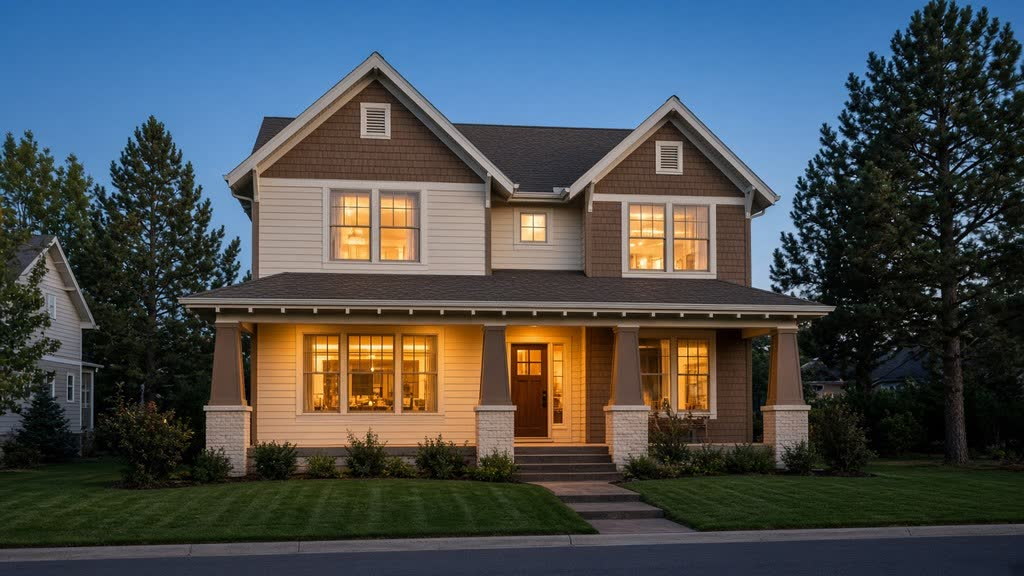
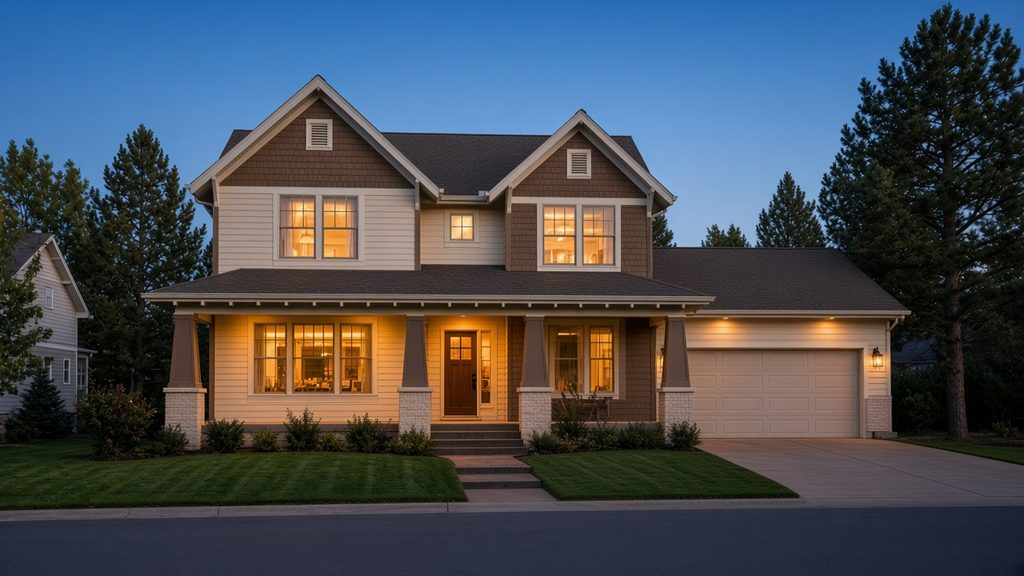
Light the two-story garage on its trim and meet each gable at the apex.
Swap the two-story photo for the house with an attached garage, trace street, wrap, and full outline on the real edges, and space every gable from a single puck at the peak.

diff --git a/index.html b/index.html
@@ -607,7 +607,7 @@ section{position:relative}
         <div class="fit-opts" id="fitHome" role="radiogroup" aria-label="Your home">
           <button type="button" class="fit-o" data-v="ss" aria-pressed="false"><b>Single story</b><i>Ranch or rambler</i></button>
           <button type="button" class="fit-o on" data-v="sg" aria-pressed="true"><b>Single story + garage</b><i>Garage wing out front</i></button>
-          <button type="button" class="fit-o" data-v="ts" aria-pressed="false"><b>Two story</b><i>Or a tall, steep roof</i></button>
+          <button type="button" class="fit-o" data-v="ts" aria-pressed="false"><b>Two story</b><i>Two levels, attached garage</i></button>
         </div>
         <div class="fit-q" style="margin-top:26px"><span>02</span> How much light</div>
         <div class="fit-opts fit-opts-c" id="fitCov" role="radiogroup" aria-label="How much light">
@@ -1234,32 +1234,49 @@ section{position:relative}
     return s;
   }
   function samples(pts, step) {
-    var segs = [], total = 0, i, dx, dy, len, dist, acc, t, out, k, a, b, L, count;
-    for (i = 0; i < pts.length - 1; i++) {
-      dx = pts[i + 1][0] - pts[i][0];
-      dy = pts[i + 1][1] - pts[i][1];
-      len = Math.sqrt(dx * dx + dy * dy);
-      segs.push([pts[i], pts[i + 1], len]);
-      total += len;
+    var i, apex = -1, total, dA, span;
+    function dist(a, b) {
+      var dx = b[0] - a[0], dy = b[1] - a[1];
+      return Math.sqrt(dx * dx + dy * dy);
     }
-    if (total < 1) return pts.slice();
-    count = Math.max(2, Math.round(total / step) + 1);
-    step = total / (count - 1);
-    out = [];
-    for (k = 0; k < count; k++) {
-      dist = Math.min(k * step, total);
-      acc = 0;
-      for (i = 0; i < segs.length; i++) {
-        a = segs[i][0]; b = segs[i][1]; L = segs[i][2];
-        if (acc + L >= dist - 1e-6 || i === segs.length - 1) {
-          t = L === 0 ? 0 : Math.max(0, Math.min(1, (dist - acc) / L));
-          out.push([a[0] + (b[0] - a[0]) * t, a[1] + (b[1] - a[1]) * t]);
-          break;
+    function at(target) {
+      var acc = 0, j, L, t, a, b;
+      for (j = 0; j < pts.length - 1; j++) {
+        a = pts[j]; b = pts[j + 1];
+        L = dist(a, b);
+        if (acc + L >= target || j === pts.length - 2) {
+          t = L === 0 ? 0 : Math.max(0, Math.min(1, (target - acc) / L));
+          return [a[0] + (b[0] - a[0]) * t, a[1] + (b[1] - a[1]) * t];
         }
         acc += L;
       }
+      return pts[pts.length - 1].slice();
     }
-    return out;
+    function lenTo(n) {
+      var t = 0, j;
+      for (j = 0; j < n; j++) t += dist(pts[j], pts[j + 1]);
+      return t;
+    }
+    /* A gable is one run through its apex. One puck sits on the apex, then
+       both rakes step away at a fixed gap so the peak is not doubled or bunched. */
+    for (i = 1; i < pts.length - 1; i++) {
+      if (pts[i][1] < pts[i - 1][1] && pts[i][1] <= pts[i + 1][1]) { apex = i; break; }
+    }
+    total = lenTo(pts.length - 1);
+    if (total < 1) return pts.slice();
+    function walk(span, origin, sign) {
+      var got = [], d = step, prev = 0;
+      while (d < span - step * 0.35) {
+        got.push(at(origin + sign * d));
+        prev = d;
+        d += step;
+      }
+      if (span - prev > step * 0.55) got.push(at(origin + sign * span));
+      return got;
+    }
+    if (apex < 0) return [pts[0].slice()].concat(walk(total, 0, 1));
+    dA = lenTo(apex);
+    return [pts[apex].slice()].concat(walk(dA, dA, -1), walk(total - dA, dA, 1));
   }
   function place(lines) {
     var used = [], pts = [], i, j, p, u, dx, dy, ok, got;
@@ -1306,14 +1323,14 @@ section{position:relative}
     return '<g class="lg" data-home="' + home + '" data-tier="' + tier + '" opacity="0">' + h + '</g>';
   }
 
-  /* Traced on the 1024x576 photographs. front = street fascia and front gables.
-     side = visible eave ends, side returns, and the garage junction. */
+  /* Traced on the 1024x576 photographs. Each gable is one run through its apex.
+     front = street fascia and front gables. side = eave returns and roof ends.
+     back = edges that show only on the full outline, such as the garage hip. */
   var EDGES = {
     ss: {
       front: [
         [[108,314],[200,311],[300,308],[400,306],[432,305]],
-        [[432,305],[490,286],[540,264],[590,242],[630,226],[656,220]],
-        [[656,220],[700,234],[750,252],[800,270],[845,286],[875,296]],
+        [[432,305],[490,286],[540,264],[590,242],[630,226],[656,218],[700,234],[750,252],[800,270],[845,286],[875,296]],
         [[655,301],[740,300],[820,300],[875,302]]
       ],
       side: [
@@ -1323,8 +1340,7 @@ section{position:relative}
     },
     sg: {
       front: [
-        [[108,272],[140,258],[180,240],[230,216],[272,204]],
-        [[282,206],[330,226],[380,248],[430,270],[456,281]],
+        [[108,272],[140,258],[180,240],[230,216],[252,208],[276,204],[300,214],[330,226],[380,248],[430,270],[456,281]],
         [[112,284],[220,284],[340,283],[450,282]],
         [[478,301],[620,300],[760,300],[880,299],[916,299]]
       ],
@@ -1335,20 +1351,22 @@ section{position:relative}
     },
     ts: {
       front: [
-        [[248,170],[270,148],[300,124],[330,100],[356,80],[368,70]],
-        [[368,70],[388,96],[420,124],[452,148],[484,172],[504,190]],
-        [[600,174],[620,150],[640,134],[660,118],[672,92]],
-        [[672,92],[696,118],[724,146],[752,174],[784,198]],
-        [[204,294],[420,294],[640,295],[812,296]]
+        [[204,179],[224,161],[248,140],[272,121],[296,101],[312,90],[320,84],[332,95],[356,117],[380,139],[404,163],[428,184],[436,191]],
+        [[496,190],[516,176],[536,160],[556,138],[572,124],[580,117],[592,127],[612,145],[632,164],[652,183],[668,199]],
+        [[180,306],[400,306],[640,307],[780,308],[900,310]]
       ],
       side: [
-        [[228,160],[248,170]]
+        [[184,184],[204,179]],
+        [[792,248],[848,264],[888,294],[900,310]]
+      ],
+      back: [
+        [[676,252],[792,250]]
       ]
     }
   };
 
   function build() {
-    var h = defs(), homes = ['ss', 'sg', 'ts'], tiers = ['front', 'side'], i, j, lines;
+    var h = defs(), homes = ['ss', 'sg', 'ts'], tiers = ['front', 'side', 'back'], i, j, lines;
     for (i = 0; i < homes.length; i++) {
       for (j = 0; j < tiers.length; j++) {
         lines = EDGES[homes[i]][tiers[j]];
@@ -1380,7 +1398,7 @@ section{position:relative}
       on = photos[i].getAttribute('data-home') === st.home;
       photos[i].classList.toggle('on', on);
     }
-    var show = {front: true, side: st.cov !== 'front'};
+    var show = {front: true, side: st.cov !== 'front', back: st.cov === 'full'};
     var lgs = svg.querySelectorAll('.lg');
     for (i = 0; i < lgs.length; i++) {
       on = lgs[i].getAttribute('data-home') === st.home && show[lgs[i].getAttribute('data-tier')];
